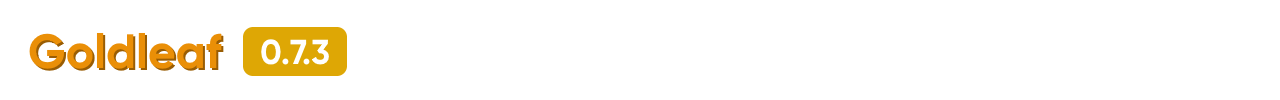
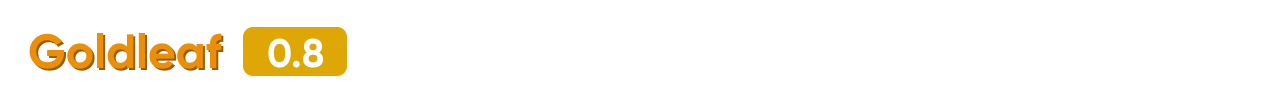
Almost ready for 0.8

Changed region(s): [[0.1875, 0.39, 0.2812, 0.69]]

diff --git a/Goldleaf/Source/Exceptions.cpp b/Goldleaf/Source/Exceptions.cpp
@@ -35,7 +35,7 @@ extern "C"
         Exit();
     }
 
-    void NORETURN __wrap_fatalThrow(Result rc) // This way, any kind of fatal thrown by us or libnx gets saved to a simple report, and Goldleaf simply closes itself
+    void __wrap_fatalThrow(Result rc) // This way, any kind of fatal thrown by us or libnx gets saved to a simple report, and Goldleaf simply closes itself
     {
         auto fname = "fatal_" + hos::FormatHex(rc) + ".log";
         String crashtxt = "\nGoldleaf fatal report\n\n";

diff --git a/Goldleaf/Source/ns/ns_Service.cpp b/Goldleaf/Source/ns/ns_Service.cpp
@@ -73,7 +73,8 @@ namespace ns
         {
             u64 appId;
             u32 version;
-        } in = { ApplicationId, LaunchVersion };
+            u8 pad[4];
+        } in = { ApplicationId, LaunchVersion, {0} };
         
         return serviceDispatchIn(nsGetServiceSession_ApplicationManagerInterface(), 36, in);
     }

diff --git a/README.md b/README.md
@@ -1,23 +1,26 @@
-<img src="Goldleaf/RomFs/Logo.png" alt="drawing" width="400"/>
+# Goldleaf
 
-![License](https://img.shields.io/badge/License-GPLv3-blue.svg) [![Releases](https://img.shields.io/github/downloads/xortroll/goldleaf/total.svg)](https://github.com/XorTroll/Goldleaf/releases/latest) [![LatestVer](https://img.shields.io/github/release-pre/xortroll/goldleaf.svg)](https://github.com/XorTroll/Goldleaf/releases/latest)
+[![LatestVer](https://img.shields.io/github/release-pre/xortroll/goldleaf.svg)](https://github.com/XorTroll/Goldleaf/releases/latest) [![Releases](https://img.shields.io/github/downloads/xortroll/goldleaf/total.svg)](https://github.com/XorTroll/Goldleaf/releases/latest) ![License](https://img.shields.io/badge/License-GPLv3-blue.svg)
 
 > Goldleaf is multipurpose homebrew tool for Nintendo Switch.
 
-<img src="Screenshot-gleaf.jpg" alt="drawing" width="400"/> <img src="Screenshot-quark.png" alt="drawing" width="300"/>
+<img src="Screenshots/Goldleaf.1.jpg" alt="drawing" width="250"/> <img src="Screenshots/Goldleaf.2.jpg" alt="drawing" width="250"/> <img src="Screenshots/Goldleaf.3.jpg" alt="drawing" width="250"/>
 
-> Having any issues? Check [this help document](docs/FAQ.md) for help!
+<img src="Screenshots/Goldleaf.4.jpg" alt="drawing" width="250"/> <img src="Screenshots/Goldleaf.5.jpg" alt="drawing" width="250"/> <img src="Screenshots/Goldleaf.6.jpg" alt="drawing" width="250"/>
+
+<img src="Screenshots/Quark.1.png" alt="drawing" width="250"/> <img src="Screenshots/Goldleaf.7.jpg" alt="drawing" width="250"/> <img src="Screenshots/Quark.2.png" alt="drawing" width="250"/>
 
 # Table of contents
 
 1. [Features](#features)
 2. [Disclaimer](#disclaimer)
 3. [Quark and remote PC](#quark-and-remote-pc)
-4. [Forwarding](#forwarding)
-5. [Settings](#settings)
-6. [Known bugs](#known-bugs)
-7. [Contributing](#contributing)
-8. [Credits and support](#credits-and-support)
+4. [Settings](#settings)
+5. [Known bugs](#known-bugs)
+6. [Contributing](#contributing)
+7. [Credits and support](#credits-and-support)
+
+> Having any issues? Check [this help document](docs/FAQ.md) for help!
 
 ## **[Download it from here!](https://github.com/XorTroll/Goldleaf/releases)**
 
@@ -41,9 +44,11 @@ These are its main features:
 
 - **Content manager**: Browse any kind of content in your SD card, console memory or game cartridge. You can browse all the NCAs, and as title options, you can remove the content, or export it as a NSP. NAND SYSTEM contents (system titles or contents) aren't allowed to be deleted. Invidual contents such as updates or DLC can be removed individually. You have also the option to remove unused tickets or tickets belonging to contents, plus the options to reset launch version (in order to remove the update nag) or to export base, updates or DLCs to installable NSPs.
 
-- **Web browser (console's web-applet)**: Using the console's web applets, Goldleaf allows to search and navigate through web pages. However, this can only be accessed if launched from the forwarder for technical reasons.
+- **Web browser (console's web-applet)**: Using the console's web applets, Goldleaf allows to search and navigate through web pages. You can even save pages as bookmarks to browse them quickly anytime.
 
 - **User account manager**: Select a user account, and easily change things as the user's nickname or even delete it. Via the file browsers you can replace a user's icon with a JPEG image, but it can be a risky action. The icon needs to be a valid JPEG, with 256x256 dimensions. Goldleaf checks if the icon is valid to replace the other one. Linked accounts can also be unlinked (locally).
+
+- **emuiibo manager**: You can control emuiibo (0.4 or higher) via Goldleaf, selecting custom amiibos, or enabling/disabling amiibo emulation, to make amiibo emulation way more comfortable than before.
 
 - **Console or Goldleaf settings**: In this menu you can manage the console's update (view it's version or dump it as a directory installable with Choi or a NSP), and pending update in case it's present (auto-downloaded updates, which can also be viewed, dumped or deleted)
 
@@ -55,11 +60,11 @@ Among all this features, Goldleaf is a very intuitive tool, with a fancy UI, and
 
 - **(ZL / ZR)** Show a dialog to shut down or reboot the console.
 
-- **(Plus / +)** Show a dialog with this information.
+- **(Minus / -)** Show a dialog with this information.
 
 #### NRO-only controls
 
-- **(Minus / -)** Exit the application in order to return to hbmenu.
+- **(Plus / +)** Exit the application in order to return to hbmenu.
 
 ## Disclaimer
 
@@ -83,35 +88,7 @@ Goldleaf will display whether a ticket is present or not, and if so, it's titlek
 
 Quark is a PC tool, with a fancy UI and made in Java, in order to help Goldleaf with the remote PC option. It should work on Windows, Linux or Mac.
 
-Only requirement for Quark to work is **JRE/JDK 8u60 or higher**.
-
-**One time setup**:
-
-1. Download [Zadig](https://zadig.akeo.ie/)
-
-2. Open Goldleaf and connect your Switch via USB with your PC
-
-3. Open Zadig
-
-4. Click "Options" and select "List all devices"
-
-5. Select the Switch from the drop-down menu
-
-6. Change the driver (right next to the green arrow) to "libusbK"
-
-7. Click on the button below "Install WCID Driver" or "Replace Driver"
-
-8. Done. Now you can use Goldleaf and Quark to directly access your PC!
-
-**Note:** To use it correctly, make sure you open Goldleaf and connect the Switch with your PC before you launch Quark. Nevertheless, Quark will warn when USB connection is gone or no USB connection is found.
-
-## Forwarding
-
-Goldleaf is released along with a NSP, in order to launch Goldleaf as an installed title, and take advantage of extra RAM and features such as web browsing.
-
-The NSP is a forwarder since **0.6**, what means that, instead of having Goldleaf's source inside the NSP, it simply loads the NRO from the SD card, meaning that only the NRO should be updated instead of having to reinstall the NSP.
-
-Goldleaf's forwarding code tries to locate Goldleaf (`Goldleaf.nro`) in `sd:/switch/` and `sd:/switch/Goldleaf/`. If it isn't found, an error message will be displayed.
+For details about how to properly setup Quark and USB, check [this small guide](Quark.md).
 
 ## Settings
 
@@ -162,9 +139,11 @@ So, via this configurations, UI's images, resources, element sizes and even tran
 
 ## Known bugs
 
-- On Atmosphère and SX OS, exiting Goldleaf via HOME menu (as a NRO) seems to crash the system on 7.x firmwares due to a weird USB bug present on that specific versions. Any non-7.x firmware doesn't have this issue.
+- Exiting Goldleaf via HOME menu (as a NRO) seems to crash the system on 7.x firmwares due to a weird USB bug present on that specific versions. Any non-7.x firmware doesn't have this issue.
 
 - Apparently, after browsing (more than 4 times?) and then browsing (specific?) empty directories crashes Goldleaf. This issue is strangely common and needs to be looked into.
+
+- Certain characters (Japanese/Chinese ones, for instance) aren't properly displayed due to the lack of those characters in the default font.
 
 ## Contributing
 

diff --git a/0.8-temp-changelog.md b/0.8-temp-changelog.md
@@ -1,7 +1,5 @@
 # Changelog
 
-**NOTE:** this will be manually filled as soon as 0.8 is developed.
-
 ## General
 
 - Updated to latest libnx. This simplifies the code, and fixes potential issues? old libnx could have had.
